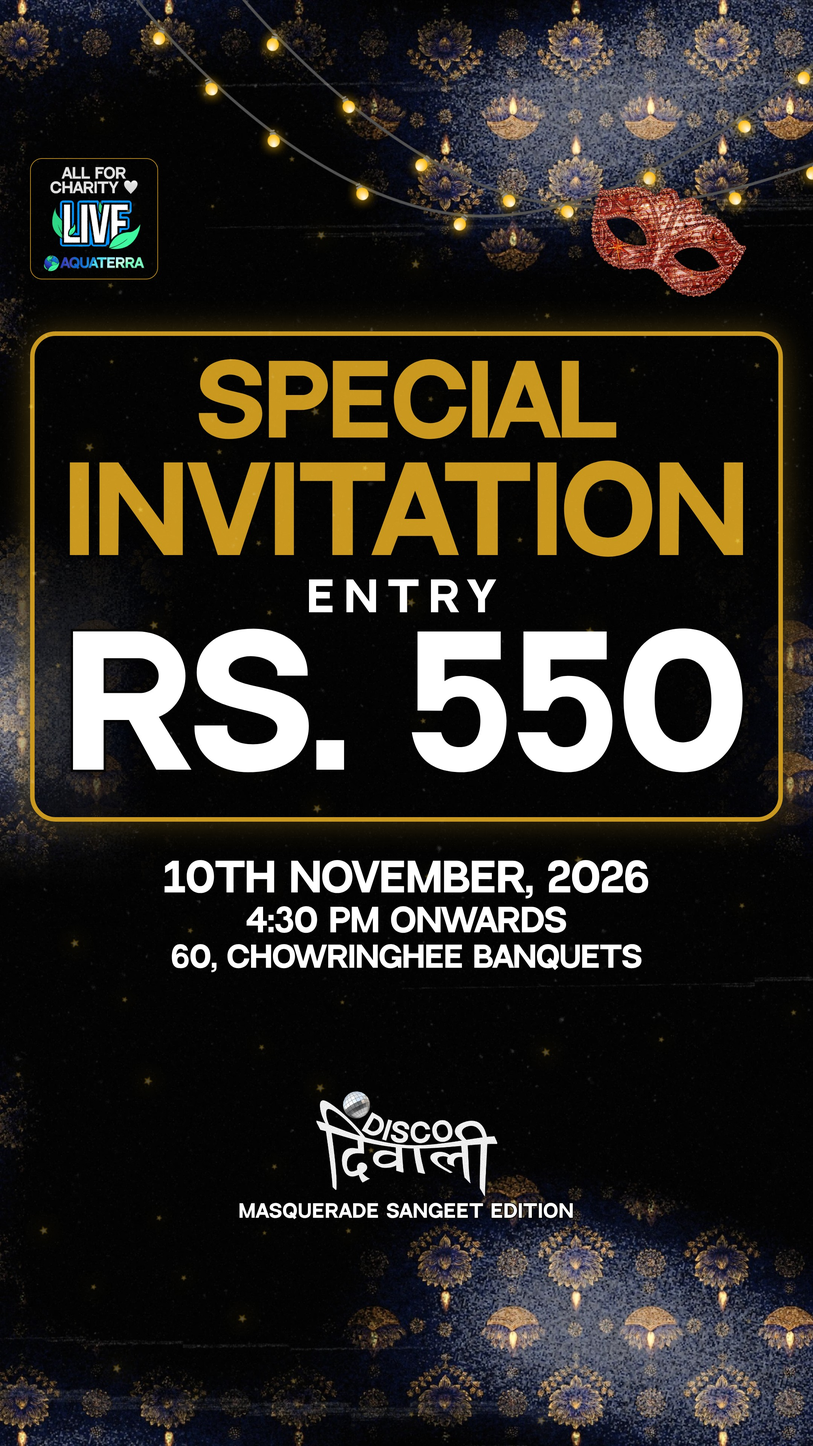
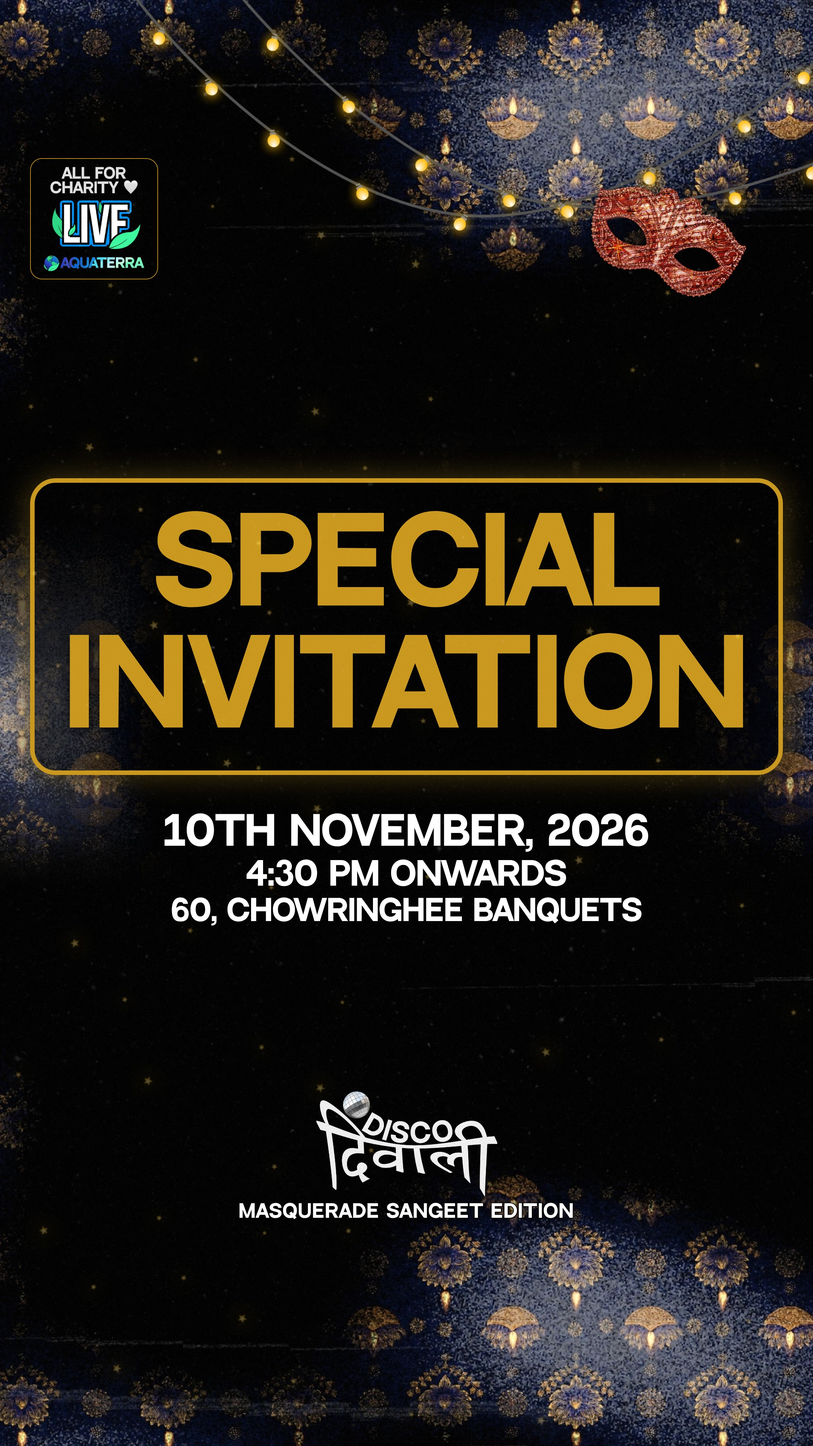
Special invitation poster v6: entry fee removed, SPECIAL INVITATION at one large size
Claude-Session: https://claude.ai/code/session_01Hjb3YdETYzUX9KQBuy3LJ5

Changed region(s): [[0.031, 0.2188, 0.9926, 0.6875]]

diff --git a/scratchpad/dd_invite2.py b/scratchpad/dd_invite2.py
@@ -1,14 +1,13 @@
 """DISCO DIWALI "SPECIAL INVITATION" v2 (user, 2026-11-07: 'SPECIAL INVITATION and Rs.550 highlighted, reduce the Disco Diwali text and place it at the footer').
-The invitation line and the fee are the hero: a gold-framed panel, SPECIAL INVITATION in gold, ENTRY label + a giant RS. 550 in white, both measured to fill the panel (v3: full-width panel, 'Entry' split off as a small label so the fee can run ~2x larger). The date, time and venue sit
+The invitation line and the fee are the hero: a gold-framed panel, SPECIAL INVITATION in gold, SPECIAL over INVITATION in gold, one size, INVITATION measured to fill the panel (v6, user 2026-11-07: the entry fee is REMOVED, so no price is printed). The date, time and venue sit
 under the panel. The lockup (with ball) is shrunk to a footer mark with the edition line beneath it. Built on the Sign primitives (beaded celestial ground, string lights, LIVE badge,
 copper mask) at feed 1080x1350 and story 1080x1920 (top 200 and bottom 250 clear for Instagram's bars). Supplied facts only: 10th November 2026, 4:30 PM onwards, 60 Chowringhee
-Banquets, Rs. 550 entry. Run: PYTHONIOENCODING=utf-8 python scratchpad/dd_invite2.py -> out/discodiwali/invite2/{feed,story}.png"""
+Banquets. Run: PYTHONIOENCODING=utf-8 python scratchpad/dd_invite2.py -> out/discodiwali/invite2/{feed,story}.png"""
 import asyncio, os, sys
 sys.path.insert(0, os.path.dirname(os.path.abspath(__file__)))
 import dd_a3_event_signs as E   # noqa: E402
 dd, B, Sign, GOLD = E.dd, E.B, E.Sign, E.GOLD
 OUT = os.path.join(E.ROOT, "out", "discodiwali", "invite2")
-FEE = os.environ.get("FEE", "Entry Rs. 550")
 W = 1080
 
 
@@ -39,20 +38,19 @@ async def build(H):
     s.els.append(("badge", 40, top, 170, round(170 * 1005 / 1061)))
     s.mask(760, top + 8, 250, 12)
     pw = 1000; px = (W - pw) // 2
-    f_sp = await fit("Special", 560, 150); f_inv = await fit("Invitation", pw - 90, 240); f3 = await fit("Rs. 550", pw - 90, 340); fl = 54
-    pad = 34; gap = 8
-    py = (440 if story else 250)
-    room = (790 if story else 745)                             # panel height available: the fee takes what the invitation lines leave
-    f3 = min(f3, room - 2 * pad - f_sp - f_inv - fl - 3 * gap)
-    ph = pad + f_sp + gap + f_inv + gap + fl + gap + f3 + pad
-    print(f"   sizes: special {f_sp}, invitation {f_inv}, label {fl}, fee {f3}; panel {ph}px")
+    f_inv = await fit("Invitation", pw - 90, 240); f_sp = f_inv       # both lines one size, INVITATION fills the panel width
+    pad = 40; gap = 10
+    ph = pad + f_sp + gap + f_inv + pad
+    info_h = 150 if not story else 175
+    gap_pi = 50 if story else 34
+    zone0, zone1 = (440, 1450) if story else (300, 1130)       # between the mask/badge and the footer mark
+    py = zone0 + max(0, (zone1 - zone0 - (ph + gap_pi + info_h)) // 2)
+    print(f"   sizes: special {f_sp}, invitation {f_inv}; panel {ph}px at y={py}")
     s.add("panel", px, py, pw, ph, f'<div style="height:{ph}px;border-radius:34px;border:6px solid {GOLD};box-sizing:border-box;background:rgba(0,0,0,.62);box-shadow:0 0 40px rgba(201,151,28,.35),0 16px 40px rgba(0,0,0,.6)"></div>', z=15, declare=False)
     s.els.append(("panel", px, py, pw, ph))
     y = s.text("invite1", "Special", py + pad, f_sp, color=GOLD, x=px, w=pw)
     y = s.text("invite2", "Invitation", y + gap, f_inv, color=GOLD, x=px, w=pw)
-    y = s.text("label", "Entry", y + gap, fl, x=px, w=pw, stroke=4, ls=.25)
-    y = s.text("fee", "Rs. 550", y + gap, f3, x=px, w=pw, stroke=6)
-    iy = py + ph + (50 if story else 24)
+    iy = py + ph + gap_pi
     y = s.text("when", "10th November, 2026", iy, 52 if story else 46, stroke=3) + 10
     y = s.text("clock", "4:30 PM onwards", y, 42 if story else 38, stroke=3) + 8
     y = s.text("venue", "60, Chowringhee Banquets", y, 38 if story else 34, stroke=3)
